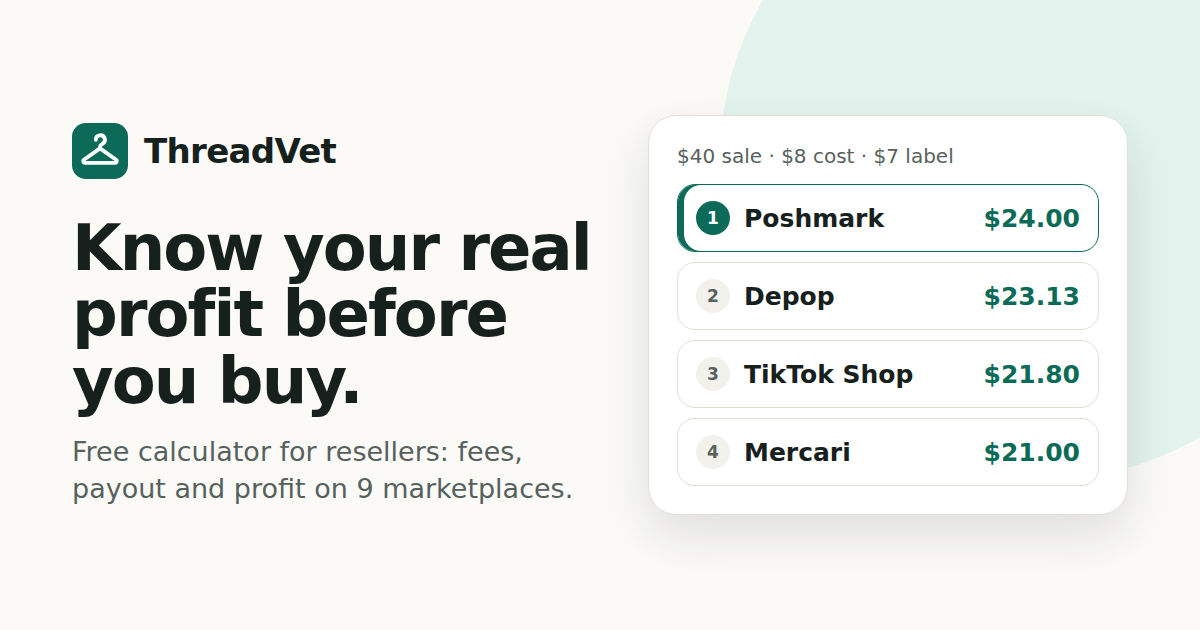
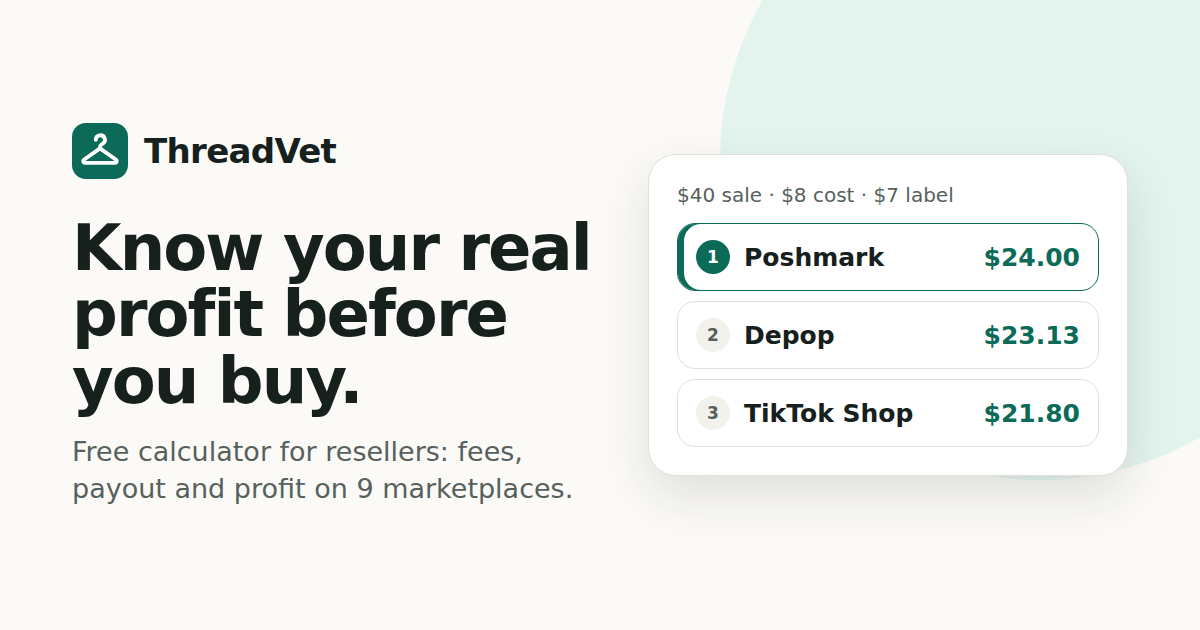
Show ranks without hidden text, keep ties whole on the social card
- Rank badges are read aloud (tied results share the number); when very
  large text hides the badges, every ranked row shows a "Tied 4th" tag
  after its name, so ties stay visible and no hidden text leaks into
  copied text, reader mode or search snippets. The fee-page list number
  is plain text too
- One test for a recommended result (recommends in calc.mjs) behind both
  the Best badge and the verdict; ranksWithTies and byScore shared by
  the renderer, the fee pages and rank(), which ignores prototype keys
- Social card: shows shared ranks and never cuts a tie in half (up to
  four rows, ending at a whole rank); regenerated
- Icons: line-height 1lh (the parent's line) gives each icon the text's
  line without @property, so every browser with lh centres them
- Tests use made-up results for ties and gaps, so fee changes can't
  break them; badge and verdict agree on 300 random inputs; inline
  icons and rank tags at very large text are checked in the browser

Claude-Session: https://claude.ai/code/session_01MxptmqEUuyTN2zjPND2G16

diff --git a/src/assets/styles.css b/src/assets/styles.css
@@ -881,23 +881,13 @@ select {
 /* Icons beside text (verdict, checklist): an icon column sized in rem, so it
    scales with the text, and a minmax(0) text column that wraps like a
    paragraph. The icon is centred on the text's first line box, measured in
-   the text's own line height (--text-line, 1lh of the text), so it holds for
-   any font. When the box is narrow for the text size, the icon goes inline
+   the text's own line height (see @supports below), so it holds for any
+   font. When the box is narrow for the text size, the icon goes inline
    instead: the text runs under it, and a word that can't fit beside it moves
    to the next line whole (a line may break after an inline-block) rather
-   than splitting.
-
-   Registered so 1lh is computed on the text, not on the smaller icon glyph
-   that inherits it. */
-@property --text-line {
-  syntax: '<length>';
-  inherits: true;
-  initial-value: 0px;
-}
-
+   than splitting. */
 .verdict {
   --icon: 1.5rem;
-  --text-line: 1lh;
   display: grid;
   grid-template-columns: var(--icon) minmax(0, 1fr);
   align-items: baseline;
@@ -1061,9 +1051,9 @@ select {
   color: var(--brand-strong);
 }
 
-/* A pinned row's rank as a tag ("5th of 9"), shown only when very large text
-   hides the rank badge (below). Screen readers hear every row's rank in words
-   instead, so the tag is aria-hidden. */
+/* A row's rank as a tag ("Tied 4th"), shown instead of the rank badge when
+   very large text hides the badges (below). Hidden (and so not read) while
+   the badge shows. */
 .tag-rank {
   display: none;
   text-transform: none;
@@ -1370,7 +1360,6 @@ select {
 
 .checklist li {
   --icon: 1.375rem;
-  --text-line: 1lh;
   display: grid;
   grid-template-columns: var(--icon) minmax(0, 1fr);
   align-items: baseline;
@@ -1403,14 +1392,18 @@ select {
   }
 }
 
-/* With lh: the icon's top is half the difference between the line and the
-   icon below the line's top, beside the text (grid) or inline with it. */
+/* With lh: the icon takes the text's line height (in line-height, lh means
+   the parent's line), so its own 1lh is one line of the text, whatever the
+   icon's smaller font. Its top then sits half the difference between that
+   line and the icon below the line's top, beside the text (grid) or inline
+   with it. */
 @supports (height: 1lh) {
   .verdict::before,
   .checklist li::before {
+    line-height: 1lh;
     align-self: start;
     vertical-align: top;
-    margin-top: calc((var(--text-line) - var(--icon)) / 2);
+    margin-top: calc((1lh - var(--icon)) / 2);
     translate: none;
   }
 }
@@ -1660,8 +1653,8 @@ table.data {
    the text) and apply to the whole list, so every row changes together.
    They leave room for the longest name word, "Marketplace" (7em in a wide
    font; the page tests check it never splits): below 14.5em every amount
-   moves under its name, below 10em the rank number steps aside (screen
-   readers hear the rank in words either way). */
+   moves under its name, below 10em the rank numbers step aside (the order
+   and the amounts still show the ranking). */
 .compare {
   container-type: inline-size;
   list-style: none;
